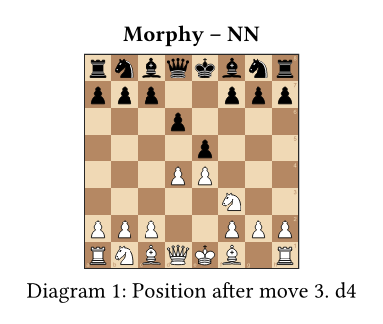
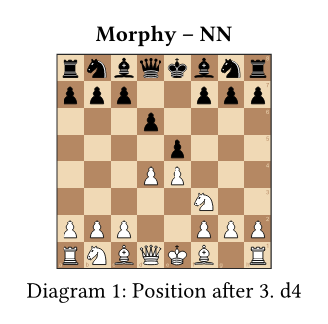
docs: manual + README for 0.2.2 (markers, spaced notation, captions)
- manual: board-options table documents proportional cross/circle/arrow strokes
  and the new cross-margin/circle-margin; PGN-handling options gain `spaced`.
  (The live examples re-render to the new spaced notation / captions on rebuild.)
- README: regenerate the Quick-Start images whose captions changed (FEN diagrams
  now "White to move" / "Black to move"; diagram-after "Position after 3. d4");
  update their alt-text; add a 0.2.2 changelog section and mark 0.2.1 released.

Changed region(s): [[0.1524, 0.0617, 0.8537, 0.8333], [0.061, 0.8642, 0.9451, 0.9568], [0.5793, 0.0617, 0.7012, 0.1235]]

diff --git a/README.md b/README.md
@@ -52,7 +52,7 @@ From a FEN string (this one is 1.e4 c5 2.Nf3):
 #chess-diagram("rnbqkbnr/pp1ppppp/8/2p5/4P3/5N2/PPPP1PPP/RNBQKB1R b KQkq - 1 2")
 ```
 
-![A chess diagram of the position after 1.e4 c5 2.Nf3, with a "Position at move 2, Black to play" caption](https://raw.githubusercontent.com/ndg6/staunton/v0.2.1/docs/img/quickstart-1.png)
+![A chess diagram of the position after 1.e4 c5 2.Nf3, with a "Black to move" caption](https://raw.githubusercontent.com/ndg6/staunton/v0.2.1/docs/img/quickstart-1.png)
 
 The starting position, with PGN-style metadata for the caption:
 
@@ -60,7 +60,7 @@ The starting position, with PGN-style metadata for the caption:
 #chess-diagram(starting-fen, white: [Carlsen], black: [Nepo], event: [Dubai], year: 2021)
 ```
 
-![The starting position with a bold "Carlsen – Nepo (2021)" info line above and a "Position at move 1, White to play" caption](https://raw.githubusercontent.com/ndg6/staunton/v0.2.1/docs/img/quickstart-2.png)
+![The starting position with a bold "Carlsen – Nepo (2021)" info line above and a "White to move" caption](https://raw.githubusercontent.com/ndg6/staunton/v0.2.1/docs/img/quickstart-2.png)
 
 Manual placement: a squares dict (square → piece). Square-name case is ignored;
 pieces may be long names, abbreviations, or bare letters.
@@ -88,7 +88,7 @@ And from a game:
 #diagram-after(game, "3w")   // a diagram of the position after White's 3rd move
 ```
 
-![A chess diagram of the position after 3.d4 in a Morphy game, with a "Morphy – NN" info line and a "Position after move 3. d4" caption](https://raw.githubusercontent.com/ndg6/staunton/v0.2.1/docs/img/quickstart-4.png)
+![A chess diagram of the position after 3.d4 in a Morphy game, with a "Morphy – NN" info line and a "Position after 3. d4" caption](https://raw.githubusercontent.com/ndg6/staunton/v0.2.1/docs/img/quickstart-4.png)
 
 ## Documentation
 
@@ -170,7 +170,20 @@ header must error with that message, any other must compile. Files/dirs prefixed
 
 ## Changelog
 
-### 0.2.1 (unreleased)
+### 0.2.2 (unreleased)
+
+- **Proportional markers**: cross / circle / arrow strokes — and the new
+  `cross-margin` / `circle-margin` — scale with the square by default (stroke 15%,
+  cross margin 7%, circle margin 3%), so marks read the same at any board size.
+  Each is settable per call or document-wide, as a ratio or an absolute length.
+- **Notation spacing**: move numbers render spaced by default ("1. e4 e5 2. Nf3";
+  a forced Black move as "24... Nf6"). A new `spaced` option (document-settable via
+  `set-pgn-defaults`) opts back into the dense "1.e4" / "24...Nf6" form.
+- **Uniform captions**: automatic below-captions are consistent — a `diagram-after`
+  reads "Position after 24. Nf3", and a FEN `chess-diagram` reads "White to move" /
+  "Black to move" (localized).
+
+### 0.2.1
 
 - **i18n**: automatic diagram captions ("Position after move …" / "Position at
   move N, X to play") and tournament-table column headers are now localized —
